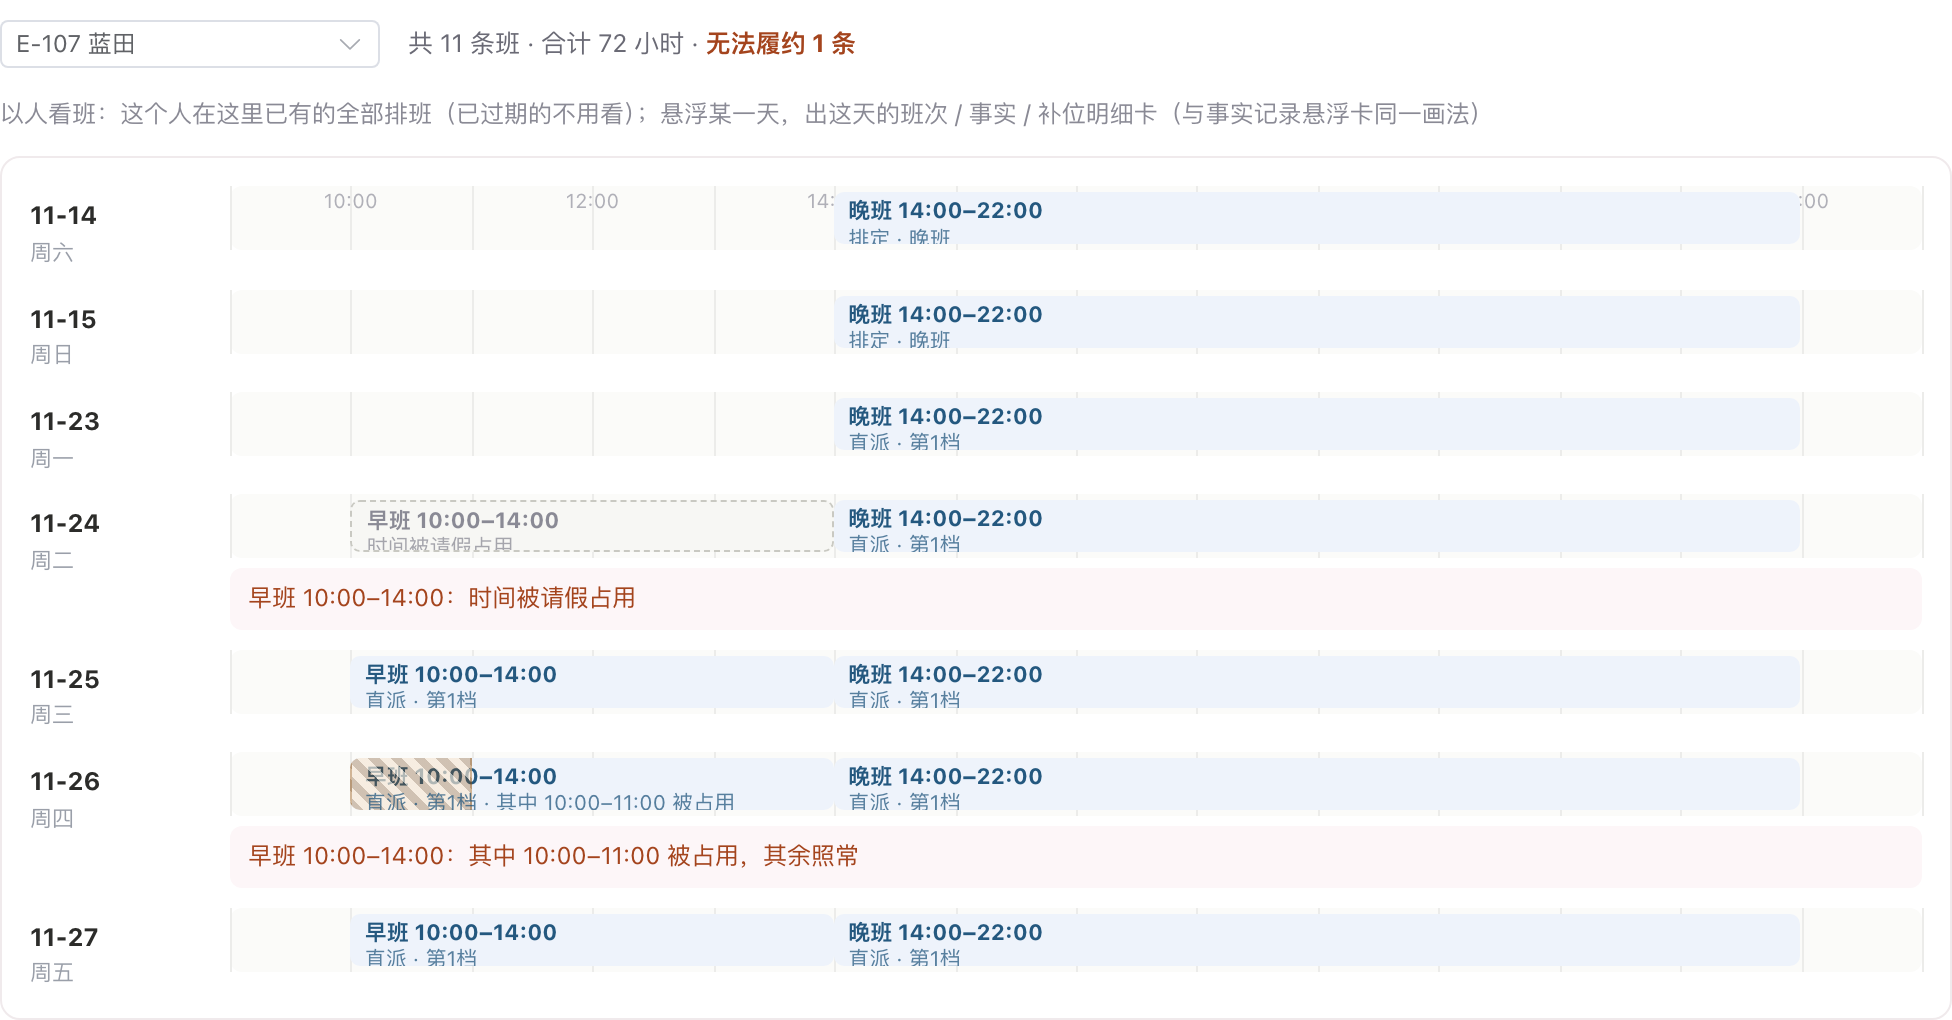
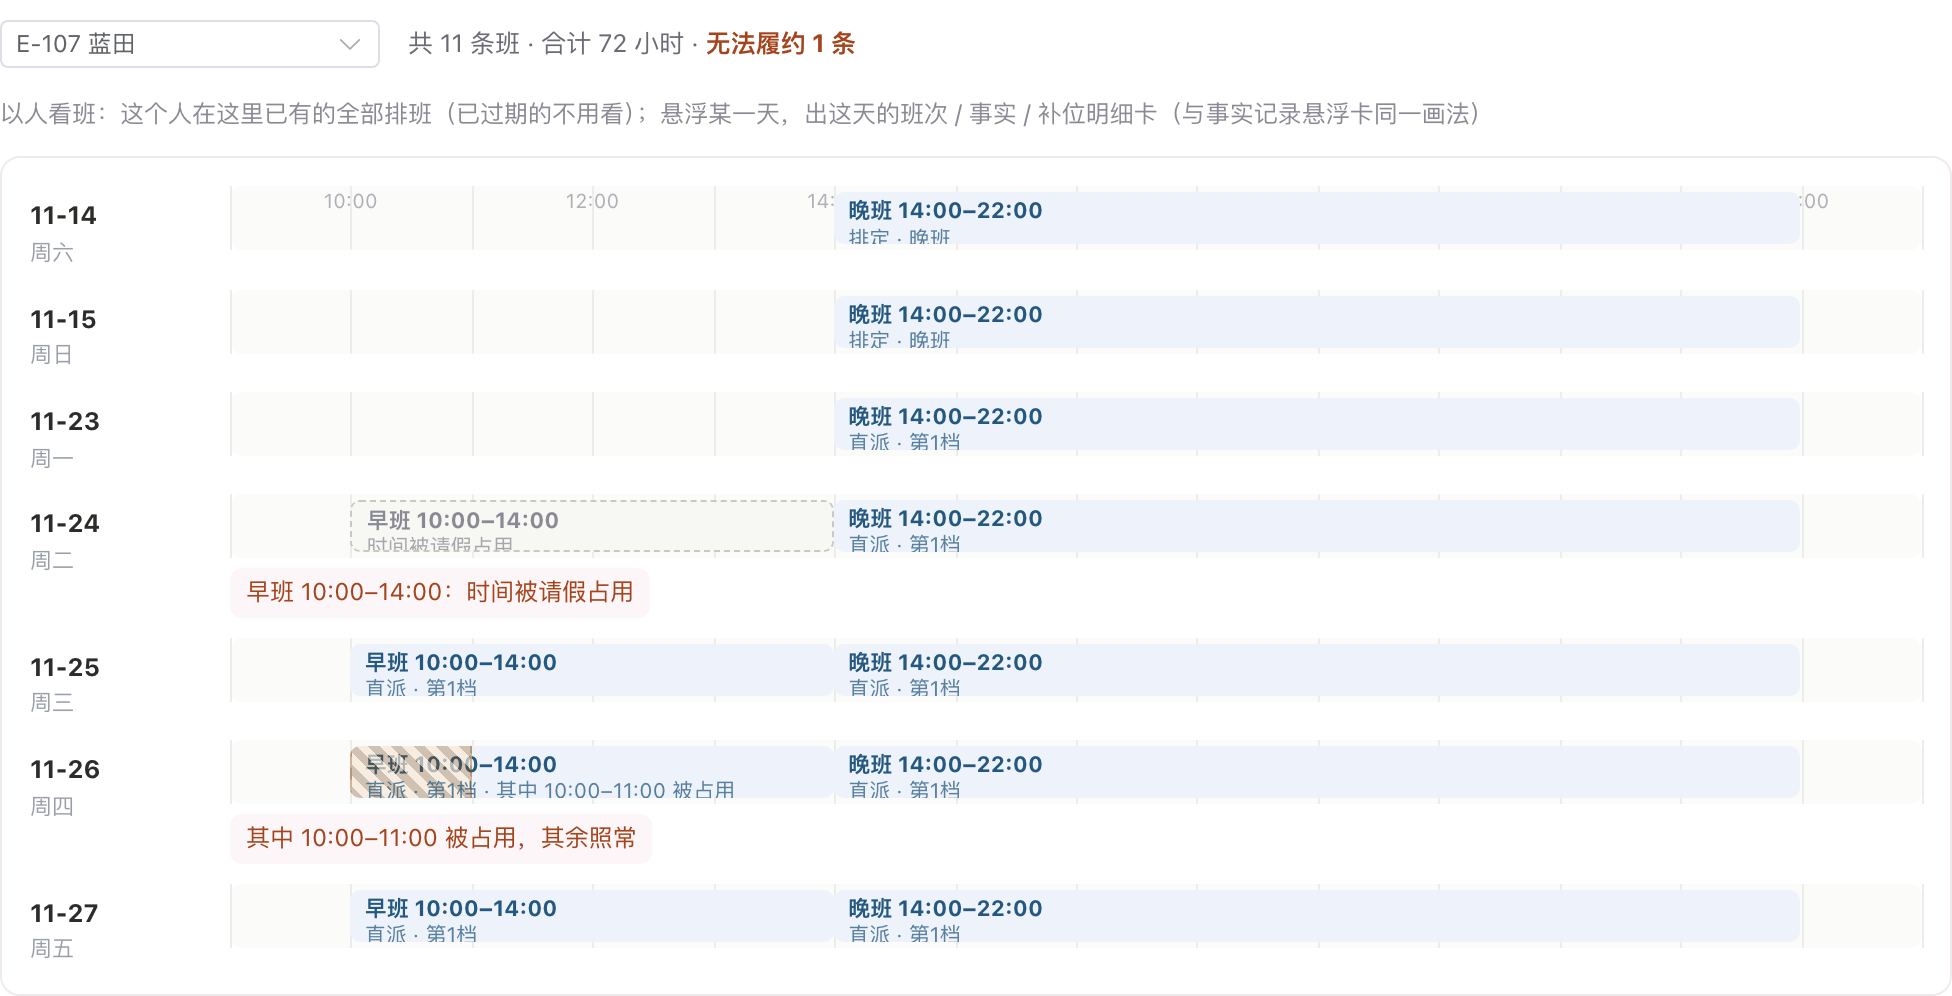
个人查询无法履约红字收窄：宽度贴合文字，不再铺满整行
- 用户指出：只请假 1 小时，红色说明条却横向铺满整行，容易被读成占了一整天——原实现按普通提示条处理，在按天时间轴页面里产生了时长暗示
- 改 width: fit-content 收成小标签；只占一段的文案去掉班次名前缀（带子就在上方，写「其中 10:00–11:00 被占用，其余照常」）；整班占用的保留「早班 10:00–14:00：时间被请假占用」
- v5-me.png 重截；测试 330/330

diff --git a/src/views/ScheduleV5.vue b/src/views/ScheduleV5.vue
@@ -1745,7 +1745,7 @@ const meDays = computed(() => {
     const blocked = []
     bands.forEach(b => {
       if (b.cls === 'covered' && !b.sub?.includes('换入')) blocked.push(`${b.text}：${b.sub}`)
-      else if (b.marks?.length) blocked.push(`${b.text}：其中 ${b.marks.map(m => m.label).join('、')} 被占用，其余照常`)
+      else if (b.marks?.length) blocked.push(`其中 ${b.marks.map(m => m.label).join('、')} 被占用，其余照常`)
     })
     return { date, bands, blocked }
   })
@@ -2376,7 +2376,7 @@ tr.covered td { color: #9a9fa9; }
 .me-day em { display: block; font-style: normal; color: #9a9fa9; font-size: 11px; }
 .me-track { height: 32px; }
 .me-none { position: absolute; left: 8px; top: 50%; transform: translateY(-50%); font-size: 11px; color: #c0c0c8; }
-.me-blocked { margin: 5px 0 0; padding: 6px 9px; background: #fdf6f8; border-radius: 6px; }
+.me-blocked { margin: 5px 0 0; padding: 3px 8px; background: #fdf6f8; border-radius: 6px; width: fit-content; max-width: 100%; }
 .me-blocked p { margin: 0; font-size: 12px; color: #a4441d; line-height: 1.55; }
 /* 悬浮卡：贴着格子出的当天单轴，不往下撑页面 */
 .tl-pop { position: fixed; z-index: 90; width: 480px; background: #fff; border: 1px solid #eee0e4; border-radius: 10px; box-shadow: 0 8px 28px rgba(60, 20, 30, 0.16); padding: 10px 12px 8px; }
